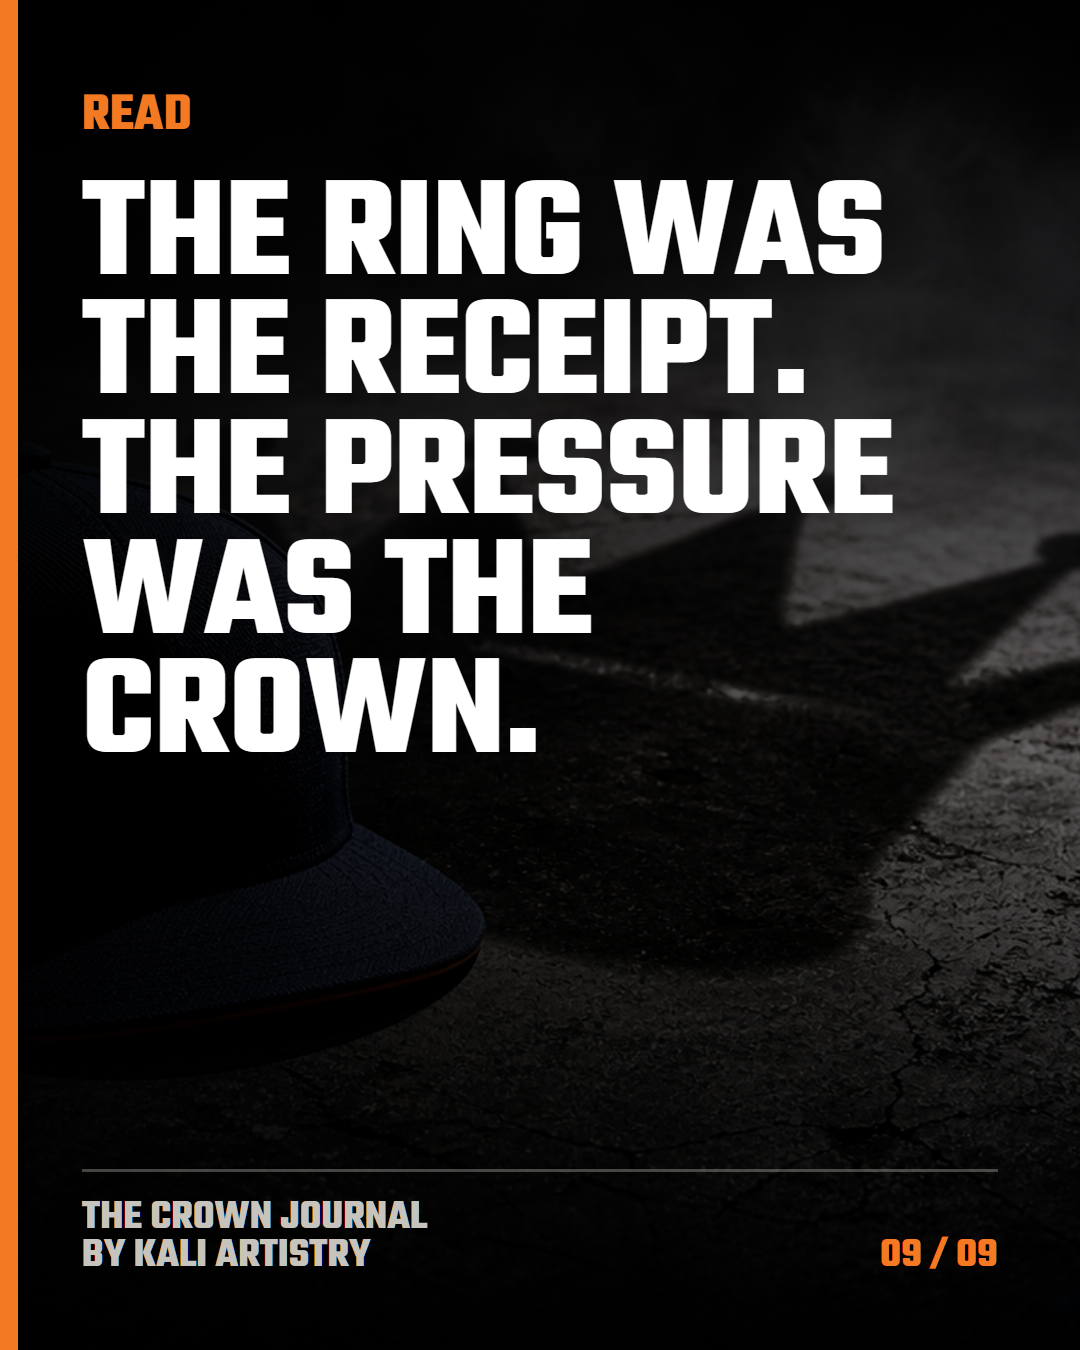
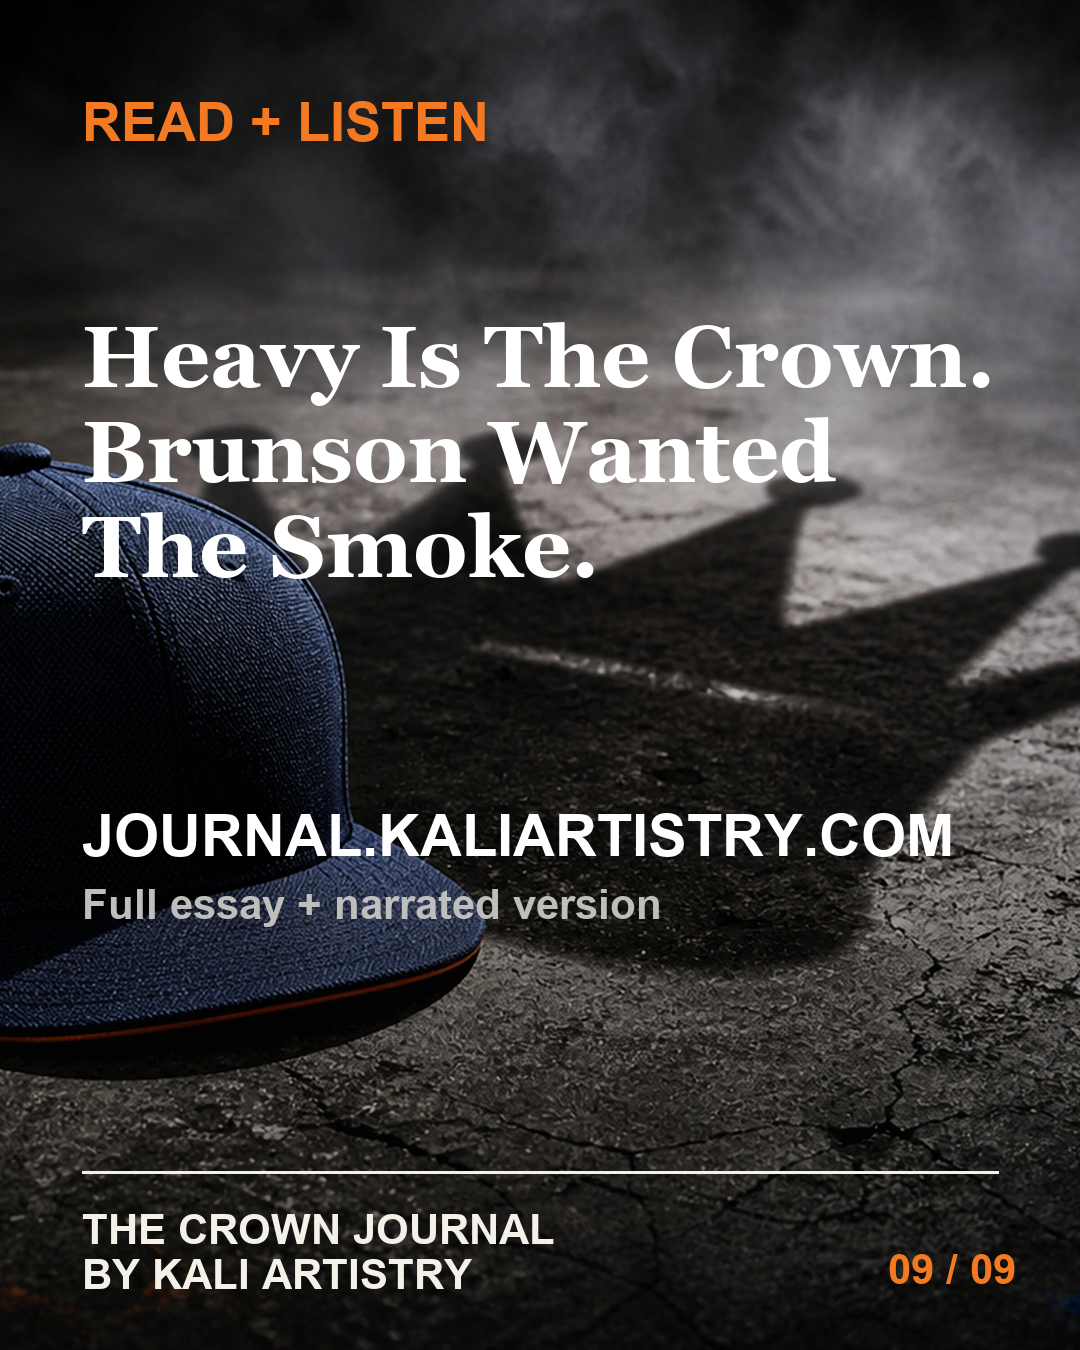
Create Instagram reel launch asset

diff --git a/distribution/social-assets/instagram-carousel/carousel.html b/distribution/social-assets/instagram-carousel/carousel.html
@@ -145,7 +145,7 @@
         ["Lineage", "The city loves fighters first. Winning just gives the fight a parade.", true],
         ["Melo", "Skipping Melo would be ducking smoke.", false],
         ["The Finals", "Game 4 was the crown. Game 5 was the receipt.", false],
-        ["Read", "The ring was the receipt. The pressure was the crown.", false]
+        ["Read + listen", "journal.kaliartistry.com", false]
       ];
       var params = new URLSearchParams(window.location.search);
       var index = Math.max(0, Math.min(slides.length - 1, parseInt(params.get("slide") || "1", 10) - 1));

diff --git a/distribution/reel-script.md b/distribution/reel-script.md
@@ -1,32 +1,43 @@
-# Short Reel Script
+# Instagram Reel Package
 
-Opening text:
+Asset:
 
-Heavy is the crown, but Jalen Brunson wore it like a fitted.
+`distribution/social-assets/instagram-reel/crown-journal-instagram-reel.mp4`
 
-Voiceover:
+Format:
 
-Let's not kid ourselves.
+- 1080x1920 vertical MP4
+- 32.7 seconds
+- Silent, so Instagram music or a native voiceover can be added in-app
+- Uses original Crown Journal crown/fitted/concrete artwork only
 
-New York did not know everything.
+## On-Screen Sequence
 
-New York knew enough.
+1. Heavy is the crown, but he wore it like a fitted.
+2. New York did not know everything. New York knew enough.
+3. The clutch is character.
+4. People outside the city call it panic. New Yorkers call it accountability.
+5. They wanted the lights. He wanted the smoke.
+6. The city loves fighters first. Winning just gives the fight a parade.
+7. Skipping Melo would be ducking smoke.
+8. Game 4 was the crown. Game 5 was the receipt.
+9. Heavy Is The Crown. Brunson Wanted The Smoke. Read + listen now.
+
+## Optional Native Voiceover
+
+Let's not kid ourselves. New York did not know everything. New York knew enough.
 
 We did not know for sure if a small guard could carry the Knicks all the way. But we knew he would not cheat us. We knew he would give us everything.
 
-People outside the city call it panic because they do not understand the language.
+People outside the city call it panic because they do not understand the language. New Yorkers call it accountability.
 
-New Yorkers call it accountability.
+They wanted the lights. He wanted the smoke.
 
-Game 4 was the crown.
+Game 4 was the crown. Game 5 was the receipt.
 
-Game 5 was the receipt.
+Read the full essay and listen to the narrated version at The Crown Journal.
 
-The ring was the receipt.
-
-The pressure was the crown.
-
-End card:
+## End Card
 
 Heavy Is The Crown. Brunson Wanted The Smoke.
 

diff --git a/distribution/social-assets/instagram-reel/README.md b/distribution/social-assets/instagram-reel/README.md
@@ -1,0 +1,20 @@
+# Crown Journal Instagram Reel
+
+Review asset:
+
+`crown-journal-instagram-reel.mp4`
+
+Specs:
+
+- 1080x1920 vertical MP4
+- 32.7 seconds
+- Silent export for Instagram music, in-app voiceover, or manual narration
+- No Knicks/NBA logos
+- No player likeness
+- No official uniform trade dress or jersey numbers
+
+Suggested caption is in `distribution/social-caption-bank.md`.
+
+Suggested link-in-bio URL:
+
+`https://journal.kaliartistry.com/heavy-is-the-crown-brunson-wanted-the-smoke/?utm_source=instagram&utm_medium=bio&utm_campaign=crown_journal_launch`

diff --git a/distribution/platform-launch-pack.md b/distribution/platform-launch-pack.md
@@ -83,17 +83,20 @@ https://journal.kaliartistry.com/heavy-is-the-crown-brunson-wanted-the-smoke/?ut
 
 ## Instagram Caption
 
-Heavy is the crown, but Jalen Brunson wore it like a fitted.
+Recommended Reel asset:
 
-New York did not know everything.
-New York knew enough.
+`distribution/social-assets/instagram-reel/crown-journal-instagram-reel.mp4`
 
-I wrote this because the championship was not just about basketball. It was about pressure, accountability, Knicks history, sacrifice, public joy, and why this city recognized Brunson before the country caught up.
+Caption:
 
-Full essay at the link in bio.
+New York did not know everything. New York knew enough.
+
+This is about pressure, accountability, Knicks history, and why the city understood Brunson before the national conversation caught up.
+
+Full essay + narrated version at the link in bio.
 
 Suggested hashtags:
-#Knicks #NewYorkKnicks #NewYork #SportsCulture #BasketballWriting #KaliArtistry
+#Knicks #NewYorkKnicks #JalenBrunson #NBAFinals #NewYorkSports #SportsWriting #TheCrownJournal
 
 Bio/story link:
 https://journal.kaliartistry.com/heavy-is-the-crown-brunson-wanted-the-smoke/?utm_source=instagram&utm_medium=bio&utm_campaign=crown_journal_launch

diff --git a/distribution/social-caption-bank.md b/distribution/social-caption-bank.md
@@ -18,11 +18,21 @@ Read the full essay at the link in bio.
 
 ## Instagram Short
 
-The ring was the receipt.
+Game 4 was the crown.
 
-The pressure was the crown.
+Game 5 was the receipt.
 
 Full essay: "Heavy Is The Crown. Brunson Wanted The Smoke."
+
+## Instagram Reel Caption
+
+New York did not know everything. New York knew enough.
+
+This is about pressure, accountability, Knicks history, and why the city understood Brunson before the national conversation caught up.
+
+Full essay + narrated version at the link in bio.
+
+#Knicks #NewYorkKnicks #JalenBrunson #NBAFinals #NewYorkSports #SportsWriting #TheCrownJournal
 
 ## LinkedIn
 

diff --git a/distribution/outreach-send-queue.md b/distribution/outreach-send-queue.md
@@ -18,13 +18,15 @@ The in-app browser appears to stage one visible form tab at a time. Review, subm
 
 ## Chrome Handoff - 2026-06-28
 
-- Posting and Toasting: Chrome story-pitch form filled and waiting for user CAPTCHA/final Submit.
-- Knicks Fan TV: Chrome contact form filled and waiting for user CAPTCHA/final Send.
+- Posting and Toasting: blocked. User confirmed the SB Nation/Posting and Toasting form still would not submit even after signup; clicking Submit produced no result.
+- Knicks Fan TV: submitted. User confirmed the form was sent 2026-06-28.
 - Roommates Show: Chrome contact form filled and waiting for user final Submit.
-- Jalen Brunson official team: Chrome contact form filled under Media & Press Requests and waiting for user final Submit.
+- Jalen Brunson official team: submitted. User confirmed the official team form was sent 2026-06-28.
 - SNY: email to [email redacted] bounced with recipient address rejected / access denied; find an alternate SNY route before retrying.
 - Gmail outreach confirmed sent: Hell Gate, The Ringer, New York Post, Newsday Opinion, MSG Networks, CBS News New York, Gothamist/WNYC, The City Reporter, Defector, and City & State New York.
-- Do not open another automated form in Chrome until the user submits or closes these handoff tabs.
+- LinkedIn: completed by user.
+- Not yet done or needs verification: Instagram, Reddit, Medium, Tumblr, Substack draft-only, Pinterest, Facebook.
+- Do not open another automated form in Chrome until any remaining handoff tabs are submitted or closed.
 
 ## First Wave
 

diff --git a/distribution/platform-plan.md b/distribution/platform-plan.md
@@ -38,7 +38,8 @@ Tracked links live in `distribution/tracked-links.md`. Use those links for promo
 
 ## Instagram
 
-- Use the carousel copy deck and reel script.
+- Use the review-ready Reel MP4 at `distribution/social-assets/instagram-reel/crown-journal-instagram-reel.mp4`.
+- Keep the carousel deck available as a backup/static post option.
 - Use the Instagram bio or story tracked link where available.
 - Use original no-logo/no-likeness visuals.
 

diff --git a/distribution/carousel-copy-deck.md b/distribution/carousel-copy-deck.md
@@ -27,7 +27,7 @@ Slide 8:
 Game 4 was the crown. Game 5 was the receipt.
 
 Slide 9:
-The ring was the receipt. The pressure was the crown.
+Read + listen at journal.kaliartistry.com.
 
 ## Design Guardrails
 